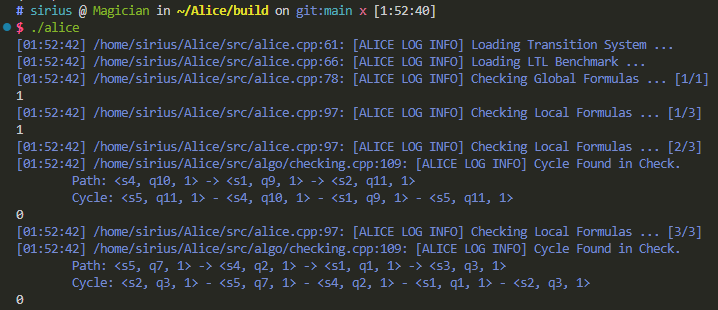
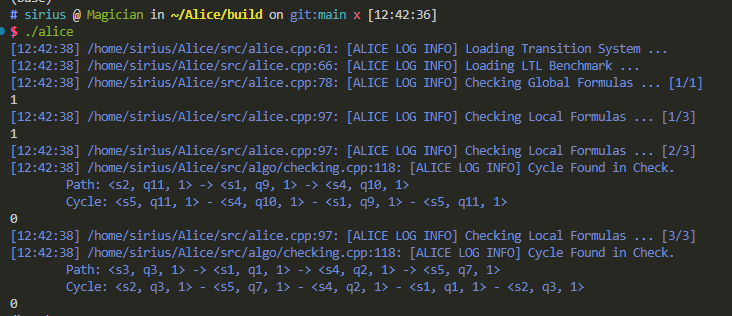
fix cycle display

Changed region(s): [[0.0, 0.0, 1.0, 0.6677], [0.0, 0.6677, 0.9805, 0.929], [0.0, 0.929, 0.0306, 0.9871]]

diff --git a/src/algo/checking.cpp b/src/algo/checking.cpp
@@ -92,12 +92,21 @@ void reachableCycle(ts::State* s) {
 
 void reportCycleInLog() {
   std::string info_str = "Cycle Found in Check.\n\tPath: ";
+
+  std::vector<std::string> path_buffer;
   while (!U.empty()) {
     auto s = U.top();
     U.pop();
-    info_str += s->name_;
-    if (!U.empty()) info_str += " -> ";
+    path_buffer.push_back(s->name_);
   }
+  for (auto it = path_buffer.rbegin(); it != path_buffer.rend();) {
+    info_str += *it;
+    ++it;
+    if (it != path_buffer.rend()) {
+      info_str += " -> ";
+    }
+  }
+
   info_str += "\n\tCycle: ";
   while (!V.empty()) {
     auto s = V.top();
